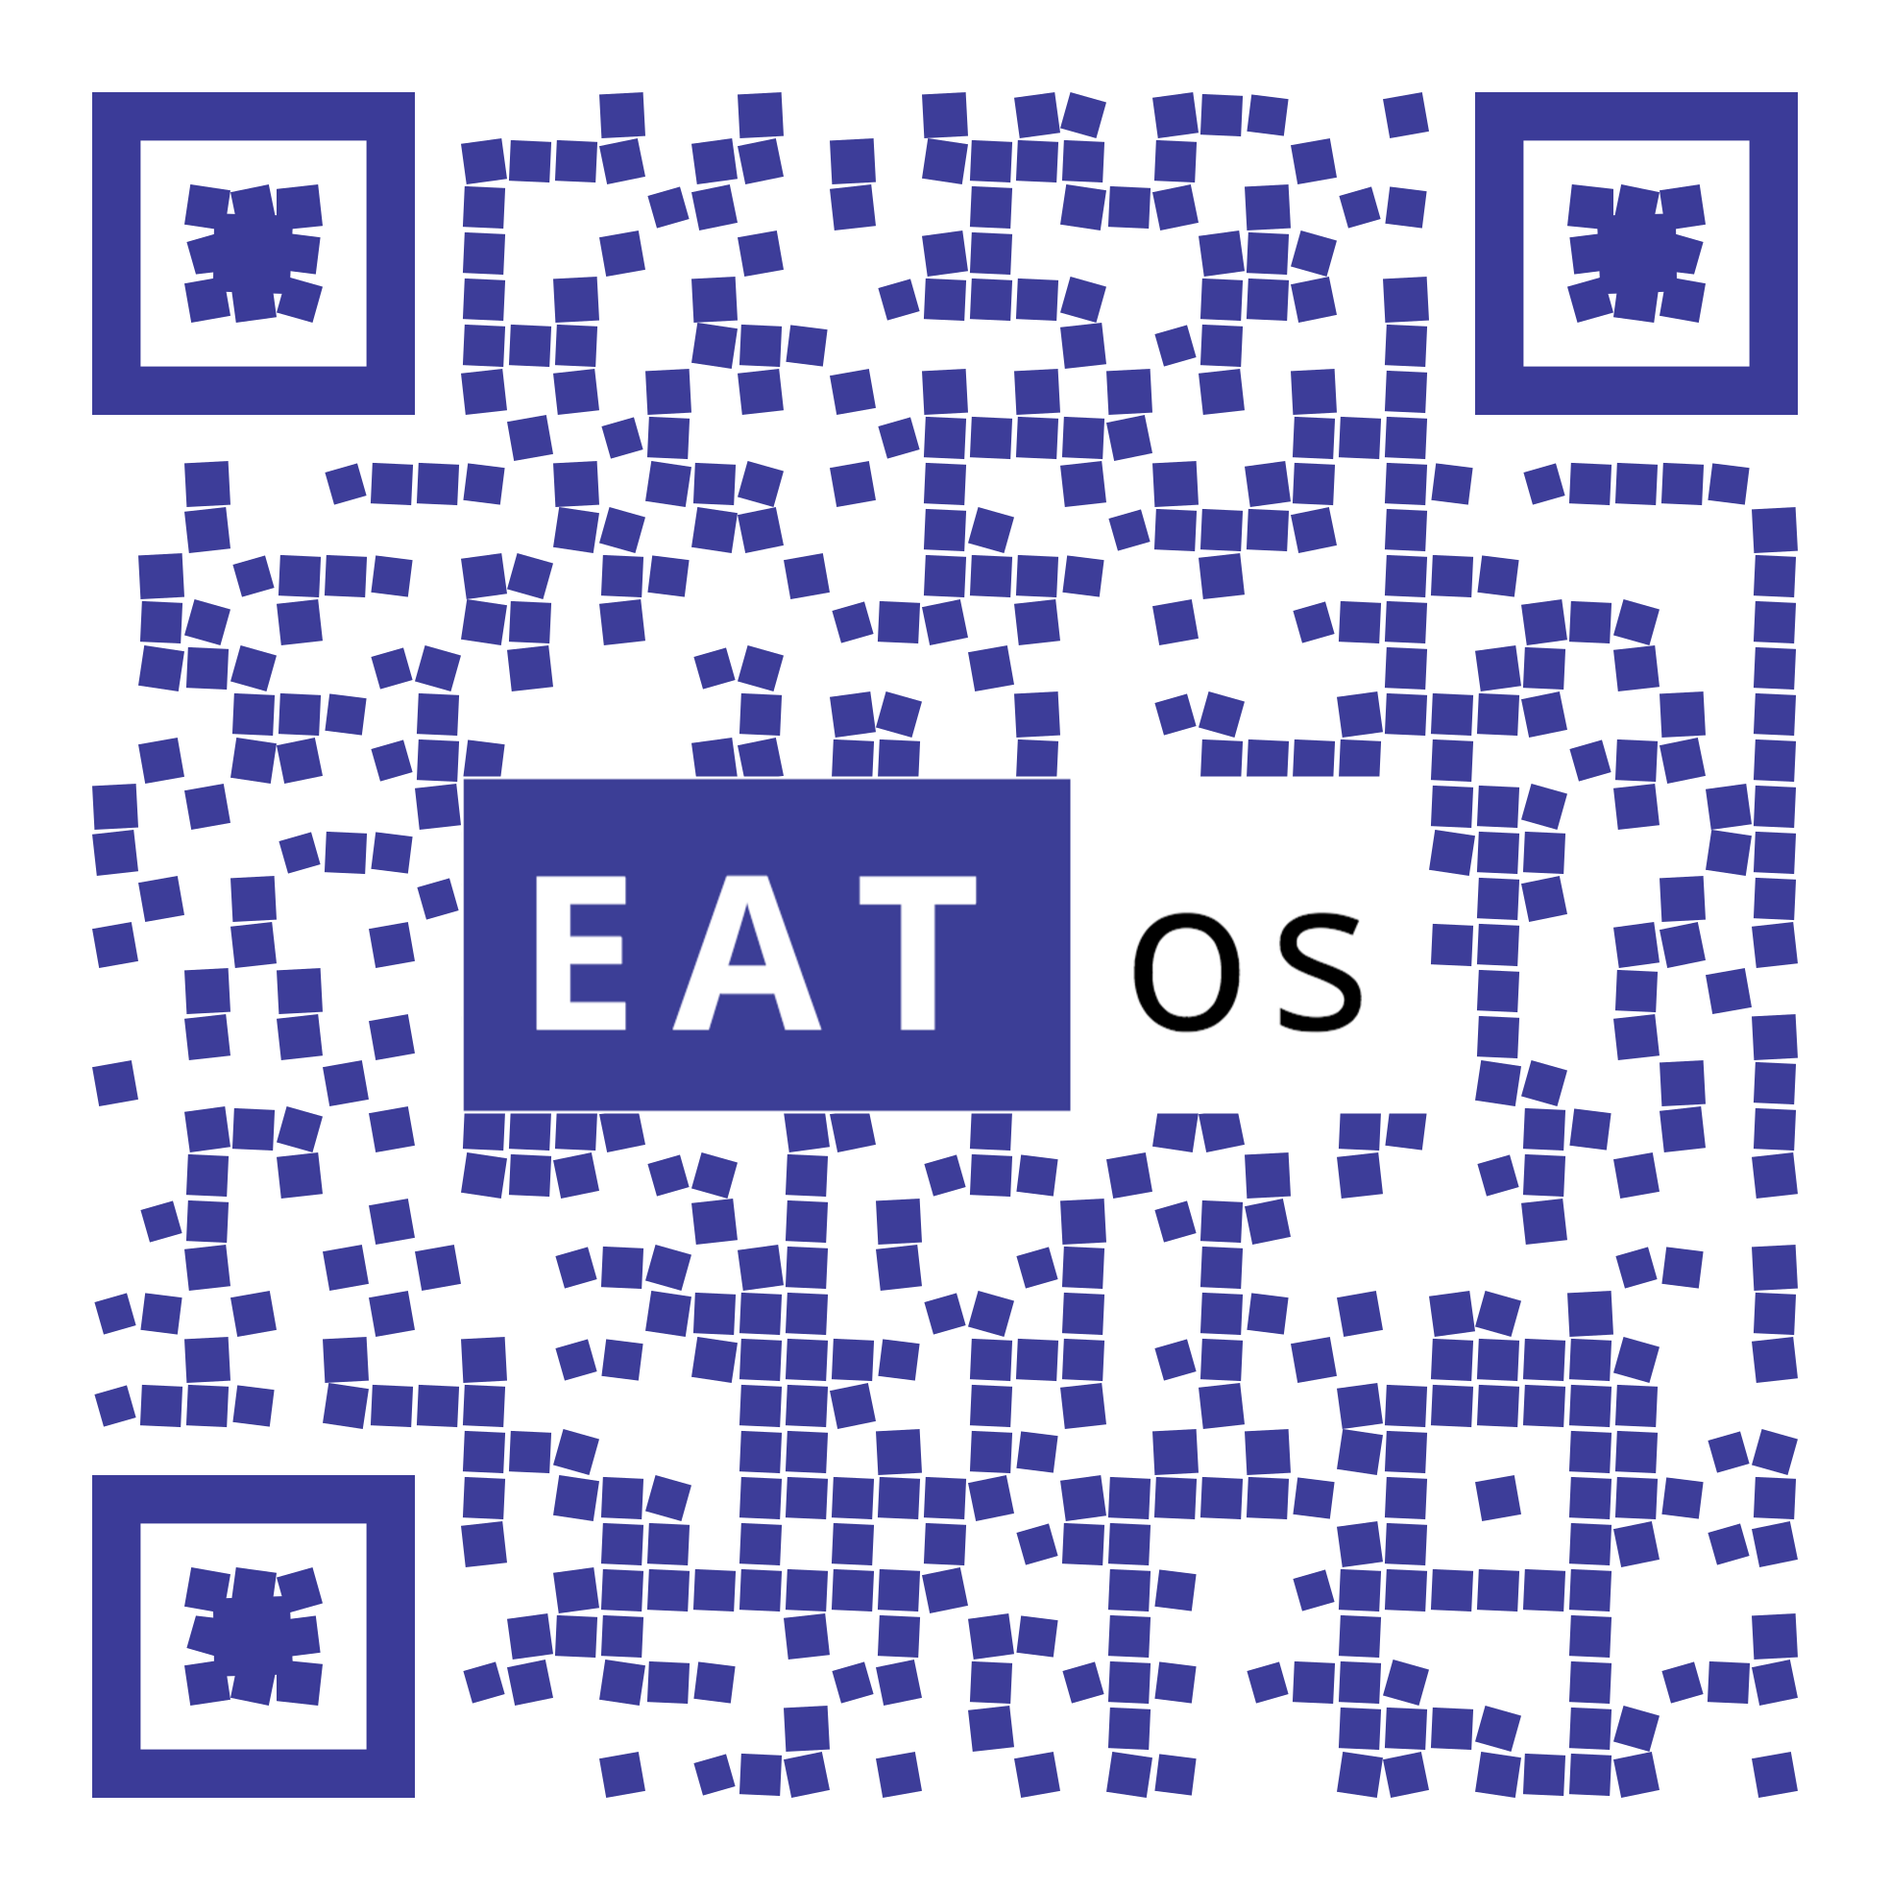
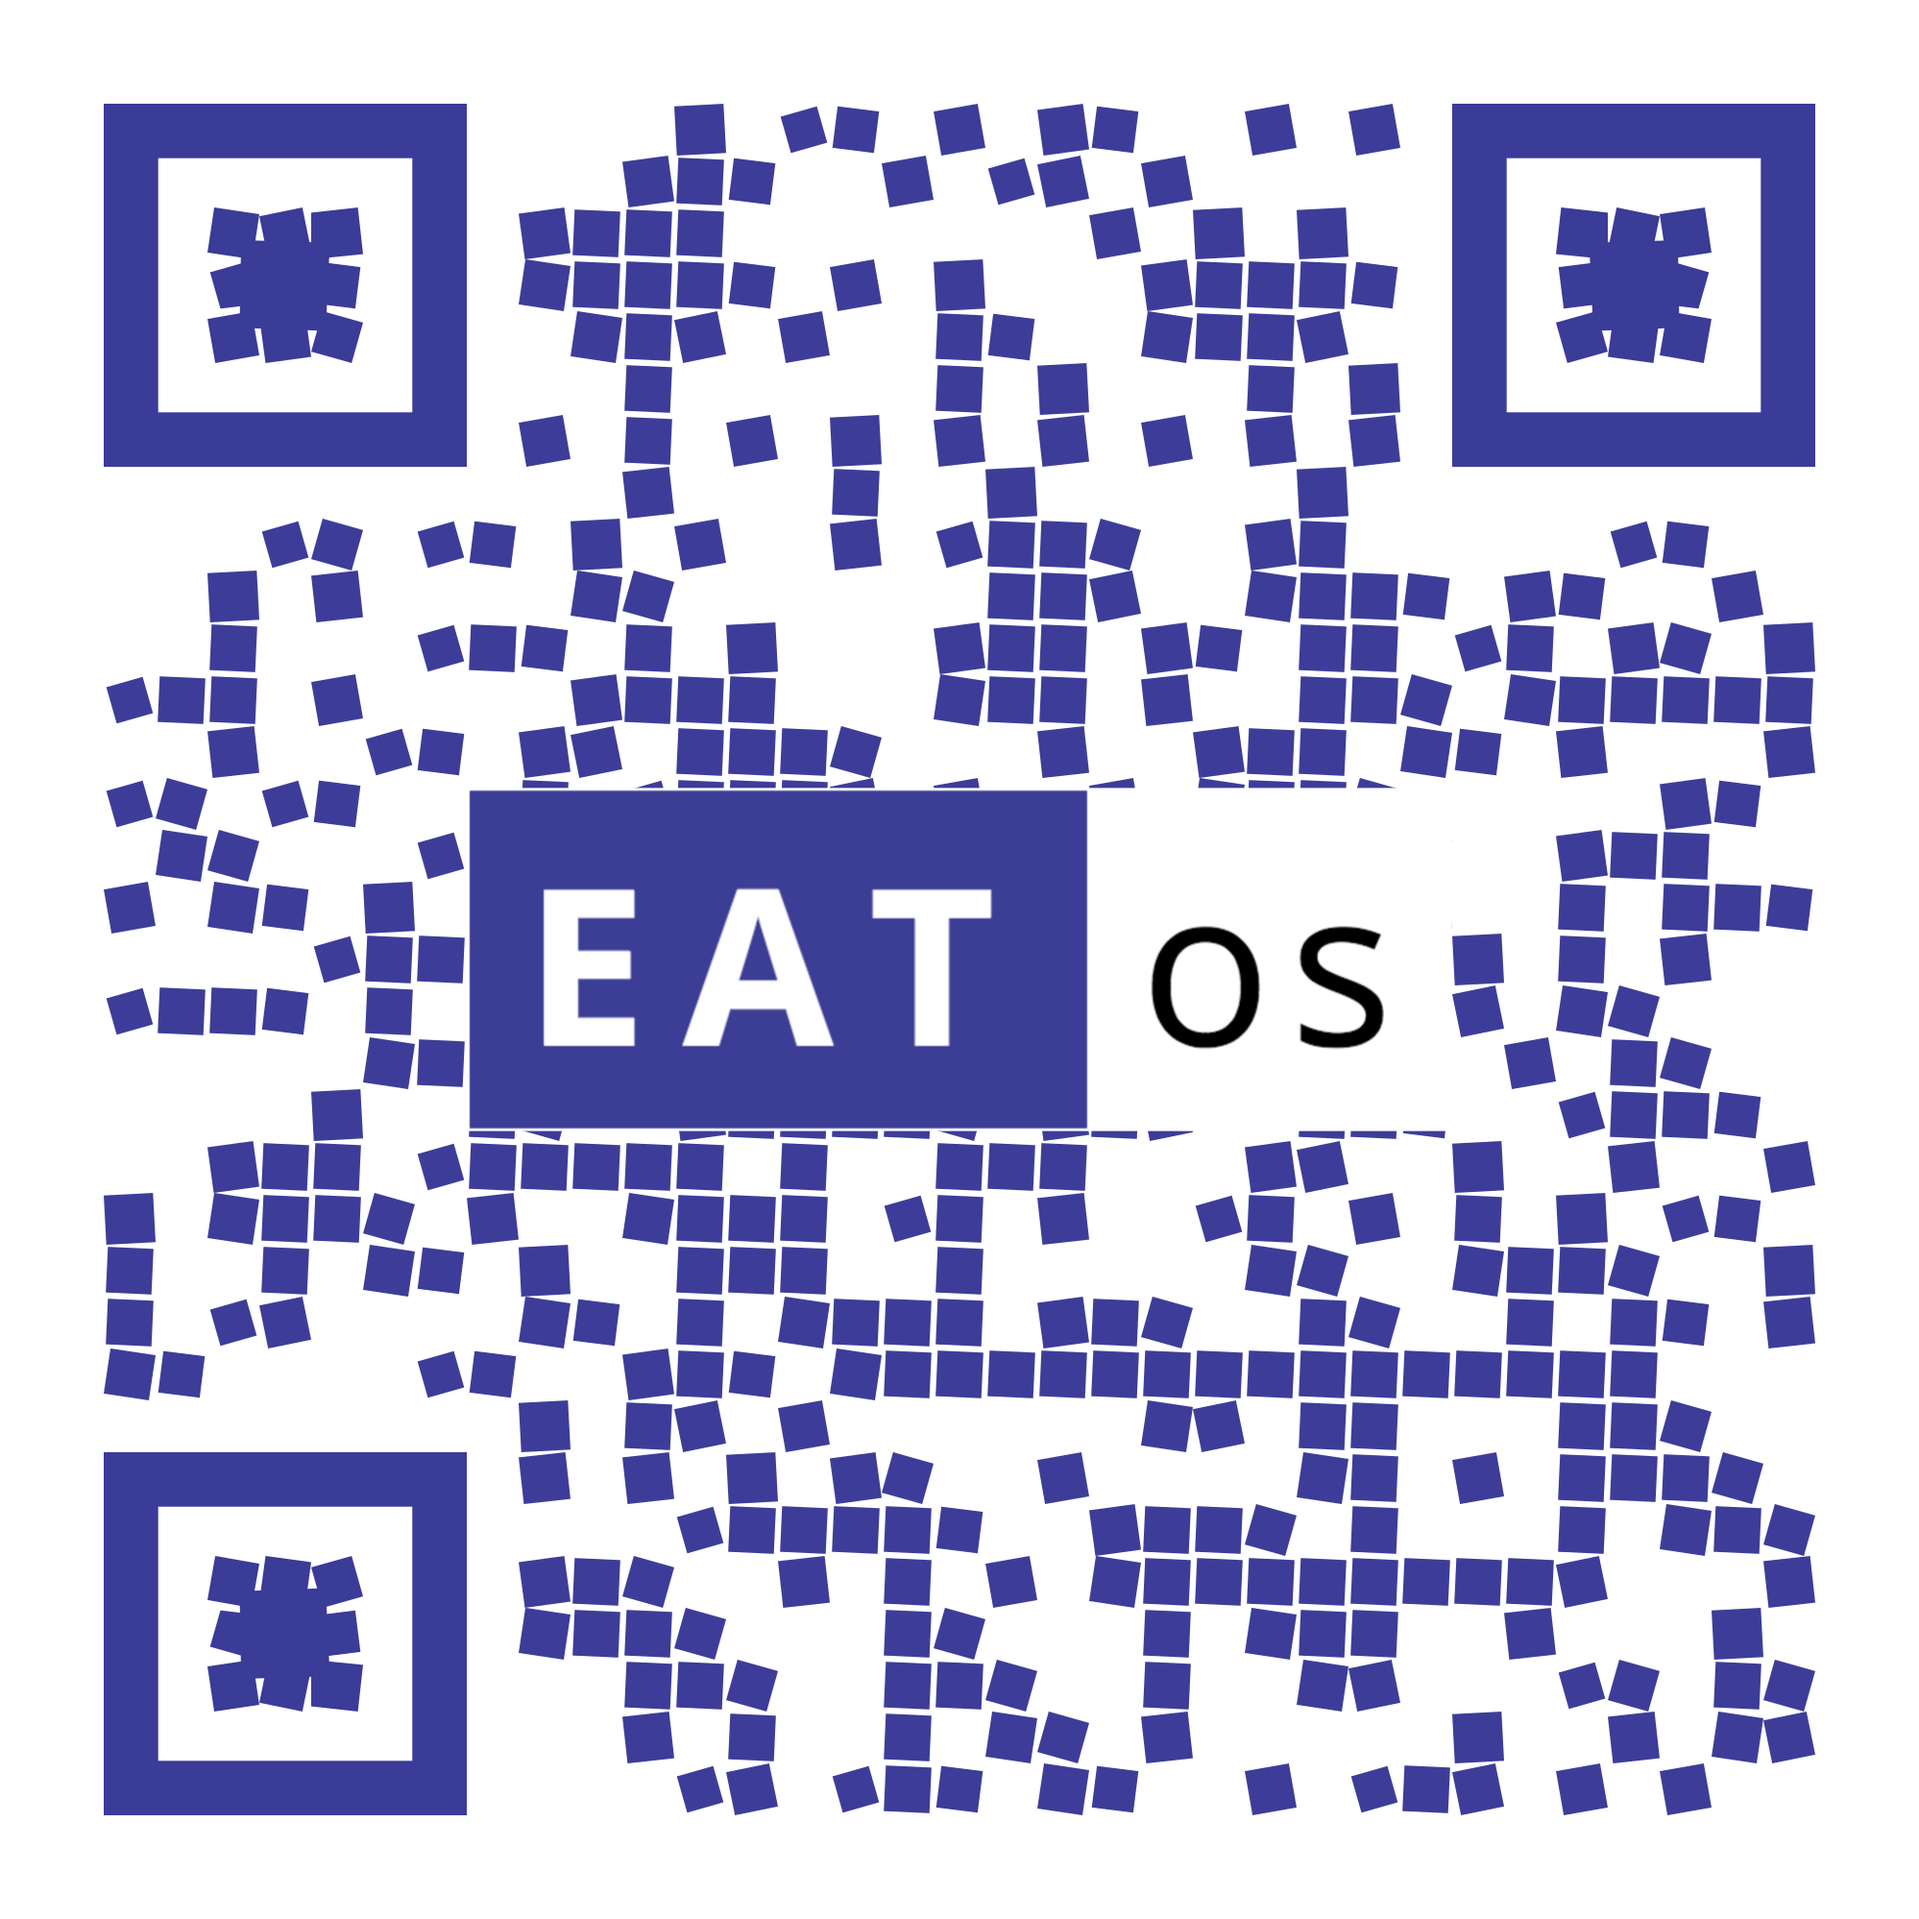
qr code

diff --git a/frontend/src/components/react-mobile-hackathon/index.js b/frontend/src/components/react-mobile-hackathon/index.js
@@ -1,6 +1,7 @@
 import React, { Component } from 'react';
 import IPhoneX from './devices/IPhoneX';
-import { QRCode } from 'react-qr-svg';
+import QRCODE from "../../images/eosqr.png"
+import Logo from "../Logo"
 
 let is_safari = /Safari/.test(navigator.userAgent) && /Apple Computer/.test(navigator.vendor);
 let is_chrome = /Chrome|CriOS/.test(navigator.userAgent);
@@ -32,23 +33,15 @@ class MobileHackathon extends Component {
                         width: 400,
                         display: 'none',
                         flexDirection: 'column',
+                        justifyContent:"center",
+                        alignItems:"center",
                         padding: 16
                     }}
                 >
-                    <h1 style={{ fontSize: 40 }}>{this.props.appName || 'React App'}</h1>
+                    <Logo/>
                     <p style={{ fontSize: 28, color: '#555' }}>Try it out!</p>
-                    <QRCode
-                        bgColor="#FFFFFF"
-                        fgColor="#000000"
-                        level="Q"
-                        style={{
-                            marginTop: 16,
-                            width: 256,
-                            alignSelf: 'center'
-                        }}
-                        value={this.props.url || 'http://localhost:3000/'}
-                    />
-                    <a href={this.props.url || 'http://localhost:3000/'} style={{ fontSize: 24, letterSpacing: 2, color: '#007BFF', marginTop: 16, alignSelf: 'center' }}>{this.props.displayUrl || 'react-app.com'}</a>
+                    <img src={QRCODE} style={{width:350,height:350}} alt=""/>
+                    <a href={this.props.url || 'http://172.16.96.85:3000'} style={{ fontSize:15, letterSpacing: 2, color: '#007BFF', marginTop: 16, alignSelf: 'center' }}>{this.props.displayUrl || 'http://172.16.96.85:3000'}</a>
                 </div>
             </div>
         );

diff --git a/frontend/src/components/MarketItemBlockGive.js b/frontend/src/components/MarketItemBlockGive.js
@@ -1,7 +1,7 @@
 import React from "react"
 import ShoppingBasket from "../images/shopping-basket.svg"
 import Dislike from "../images/thumb-down-outline-symbol.svg"
-import Fade from "@material-ui/core/es/Fade/Fade";
+import Fade from "@material-ui/core/Fade/Fade";
 import SausagePurple from "../images/sausage-icon-purple.svg"
 
 class ItemBlock extends React.Component {

diff --git a/frontend/src/components/ItemBlock.js b/frontend/src/components/ItemBlock.js
@@ -3,7 +3,7 @@ import ShoppingBasket from "../images/shopping-basket.svg"
 import Dislike from "../images/thumb-down-outline-symbol.svg"
 import Smile from "../images/smile.svg"
 import Dollar from "../images/coin.svg"
-import Fade from "@material-ui/core/es/Fade/Fade";
+import Fade from "@material-ui/core/Fade/Fade";
 
 
 import egg from "../images/egg.png"

diff --git a/frontend/src/components/MarketItemBlockSell.js b/frontend/src/components/MarketItemBlockSell.js
@@ -1,7 +1,7 @@
 import React from "react"
 import ShoppingBasket from "../images/shopping-basket.svg"
 import Dislike from "../images/thumb-down-outline-symbol.svg"
-import Fade from "@material-ui/core/es/Fade/Fade";
+import Fade from "@material-ui/core/Fade/Fade";
 import Sausage from "../images/sausage-icon.svg"
 
 class ItemBlock extends React.Component {

diff --git a/frontend/src/App.js b/frontend/src/App.js
@@ -46,7 +46,7 @@ class App extends Component {
 
     render() {
         return (
-            <MobileHackathon appName='EOS' >
+            <MobileHackathon appName='EATos' >
                 <Switch>
                     <Route path='/inventory' component={InventoryPage} />
                     <Route path='/market' component={MarketPlacePage} />

diff --git a/frontend/src/components/SellModal.js b/frontend/src/components/SellModal.js
@@ -1,5 +1,5 @@
 import React from "react"
-import TextField from "@material-ui/core/es/TextField/TextField";
+import TextField from "@material-ui/core/TextField/TextField";
 
 const isNumberKey = (evt) =>
 {
